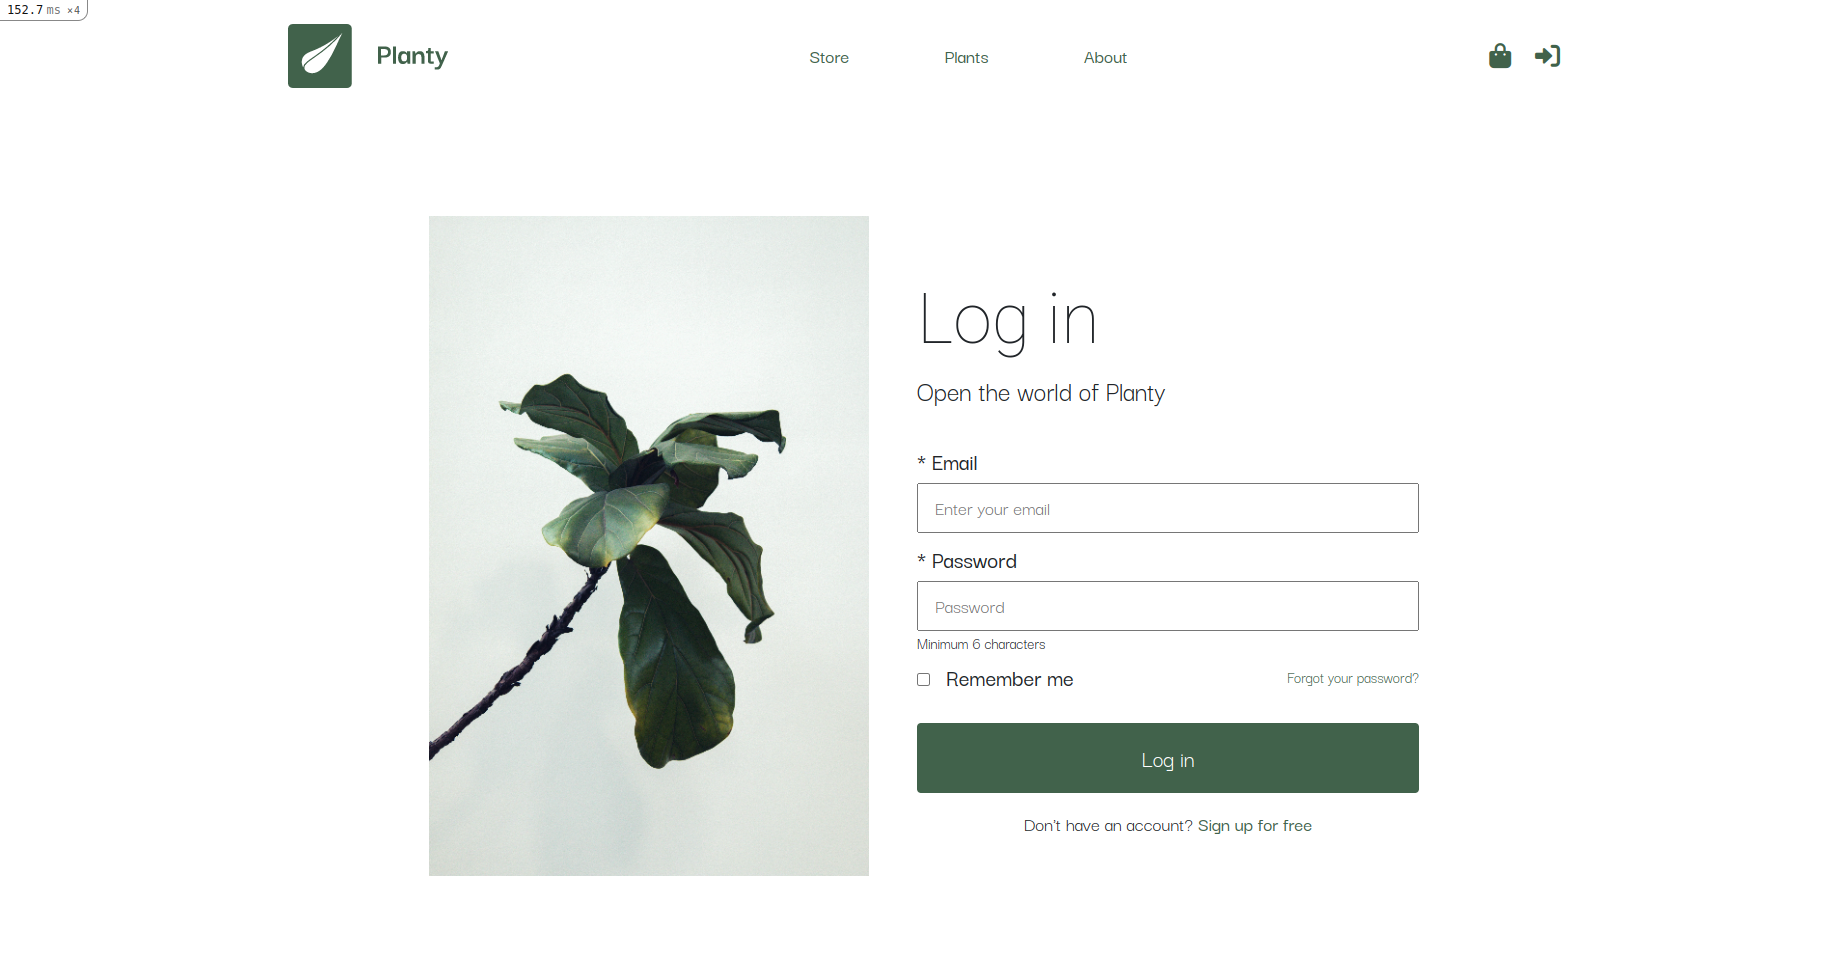
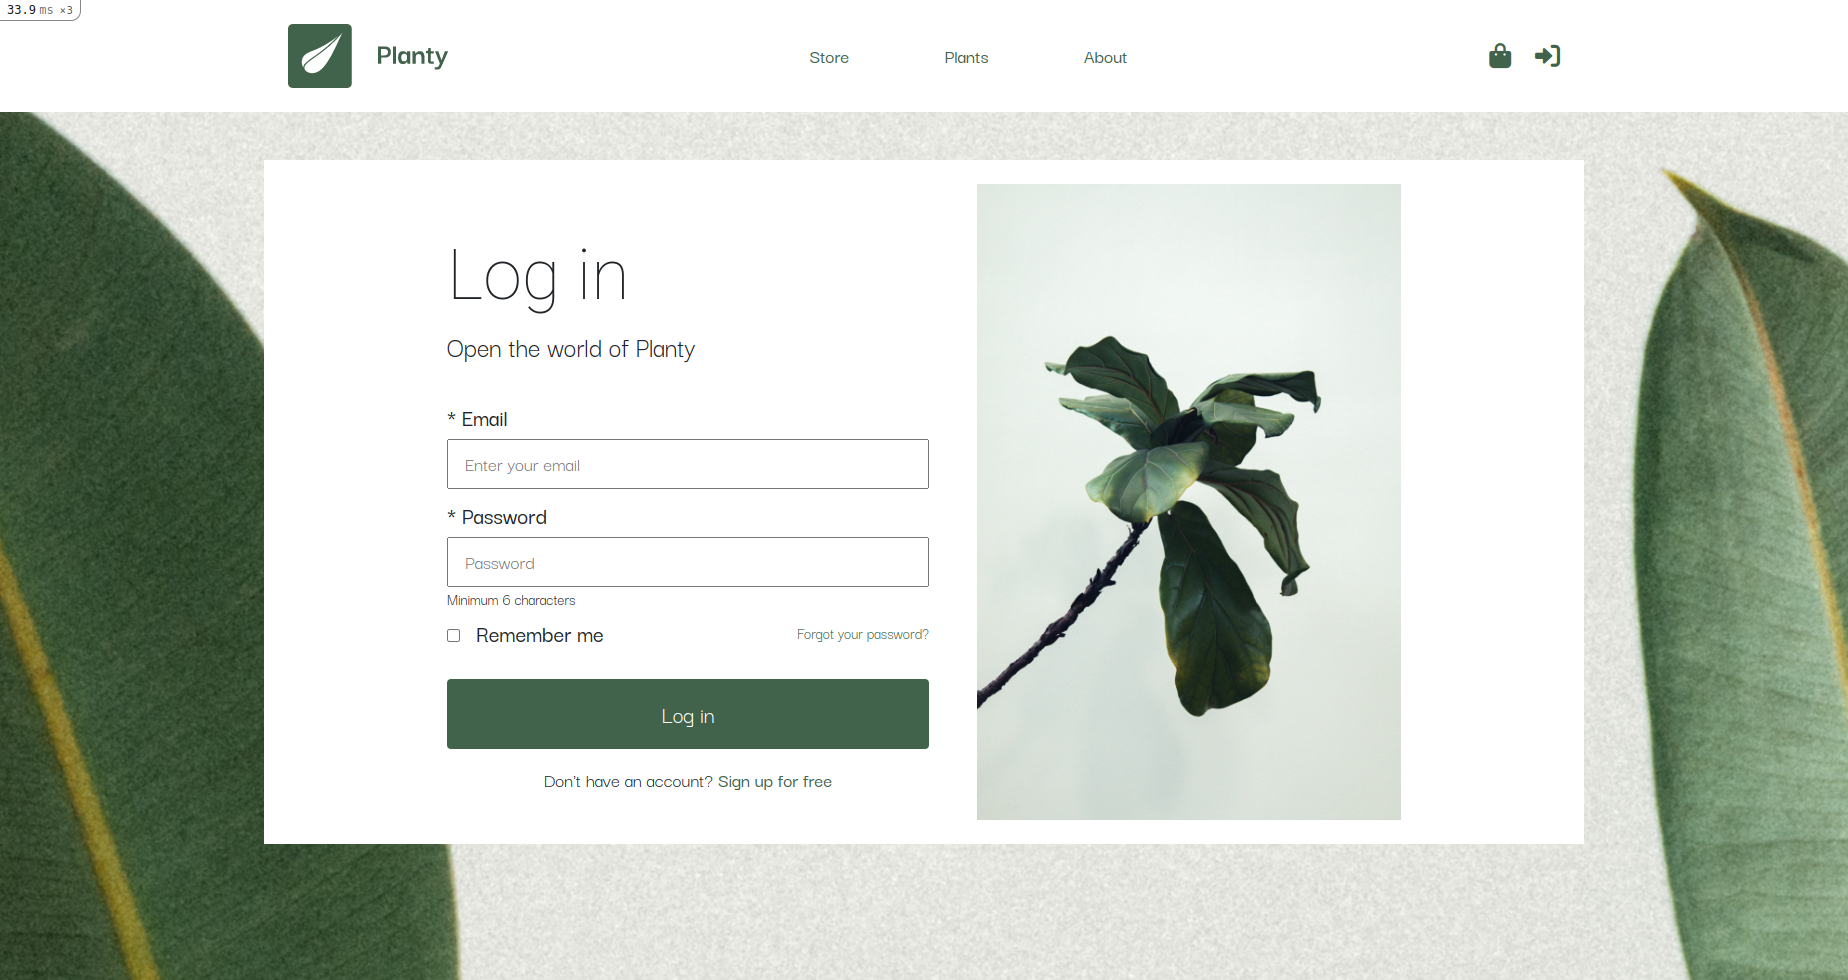
Add UI for signup page and forgot password page

diff --git a/app/javascript/packs/application.js b/app/javascript/packs/application.js
@@ -13,6 +13,10 @@ import "bootstrap"
 import { Tooltip, Popover } from "bootstrap"
 require("../stylesheets/application.scss")
 
+Rails.start()
+Turbolinks.start()
+ActiveStorage.start()
+
 document.addEventListener("turbolinks:load", () => {
   // Both of these are from the Bootstrap 5 docs
   var tooltipTriggerList = [].slice.call(document.querySelectorAll('[data-bs-toggle="tooltip"]'))
@@ -25,10 +29,6 @@ document.addEventListener("turbolinks:load", () => {
       return new Popover(popoverTriggerEl)
   })
 })
-
-Rails.start()
-Turbolinks.start()
-ActiveStorage.start()
 
 require('packs/scripts.js') 
 

diff --git a/app/javascript/stylesheets/users/signin.scss b/app/javascript/stylesheets/users/signin.scss
@@ -1,7 +1,11 @@
 @use '../config' as *;
 
 #user-auth {
-  height: calc(100vh - 112px);
+  background: url('/assets/home-cover.jpg');
+
+  .container-xl {
+    background-color: white;
+  }
 
   img {
     width: 100%;
@@ -29,6 +33,7 @@
     width: 100%;
     padding: 8px 16px;
     font-size: 20px;
+    outline-color: $dark-green;
   }
 
   input.btn {

diff --git a/app/javascript/stylesheets/application.scss b/app/javascript/stylesheets/application.scss
@@ -17,6 +17,10 @@
     width: 100px;
     height: 40px;
   }
+
+  .height-responsive {
+    height: calc(100vh - 88px);
+  }
 }
 
 @media only screen and (min-width: 768px) {
@@ -28,6 +32,10 @@
   .logo-responsive {
     width: 160px;
     height: 64px;
+  }
+
+  .height-responsive {
+    height: calc(100vh - 112px);
   }
 }
 

diff --git a/db/migrate/20220616090043_add_confirmable_to_devise.rb b/db/migrate/20220616090043_add_confirmable_to_devise.rb
@@ -1,0 +1,21 @@
+class AddConfirmableToDevise < ActiveRecord::Migration[6.1]
+  # Note: You can't use change, as User.update_all will fail in the down migration
+  def up
+    add_column :users, :confirmation_token, :string
+    add_column :users, :confirmed_at, :datetime
+    add_column :users, :confirmation_sent_at, :datetime
+    add_column :users, :unconfirmed_email, :string # Only if using reconfirmable
+    add_index :users, :confirmation_token, unique: true
+    # User.reset_column_information # Need for some types of updates, but not for update_all.
+    # To avoid a short time window between running the migration and updating all existing
+    # users as confirmed, do the following
+    User.update_all confirmed_at: DateTime.now
+    # All existing user accounts should be able to log in after this.
+  end
+
+  def down
+    remove_index :users, :confirmation_token
+    remove_columns :users, :confirmation_token, :confirmed_at, :confirmation_sent_at
+    remove_columns :users, :unconfirmed_email # Only if using reconfirmable
+  end
+end

diff --git a/db/schema.rb b/db/schema.rb
@@ -10,7 +10,7 @@
 #
 # It's strongly recommended that you check this file into your version control system.
 
-ActiveRecord::Schema.define(version: 2022_06_16_021733) do
+ActiveRecord::Schema.define(version: 2022_06_16_090043) do
 
   # These are extensions that must be enabled in order to support this database
   enable_extension "plpgsql"
@@ -74,6 +74,11 @@ ActiveRecord::Schema.define(version: 2022_06_16_021733) do
     t.datetime "remember_created_at"
     t.datetime "created_at", precision: 6, null: false
     t.datetime "updated_at", precision: 6, null: false
+    t.string "confirmation_token"
+    t.datetime "confirmed_at"
+    t.datetime "confirmation_sent_at"
+    t.string "unconfirmed_email"
+    t.index ["confirmation_token"], name: "index_users_on_confirmation_token", unique: true
     t.index ["email"], name: "index_users_on_email", unique: true
     t.index ["reset_password_token"], name: "index_users_on_reset_password_token", unique: true
   end

diff --git a/app/models/user.rb b/app/models/user.rb
@@ -2,5 +2,5 @@ class User < ApplicationRecord
   # Include default devise modules. Others available are:
   # :confirmable, :lockable, :timeoutable, :trackable and :omniauthable
   devise :database_authenticatable, :registerable,
-         :recoverable, :rememberable, :validatable
+         :recoverable, :rememberable, :validatable, :confirmable
 end
